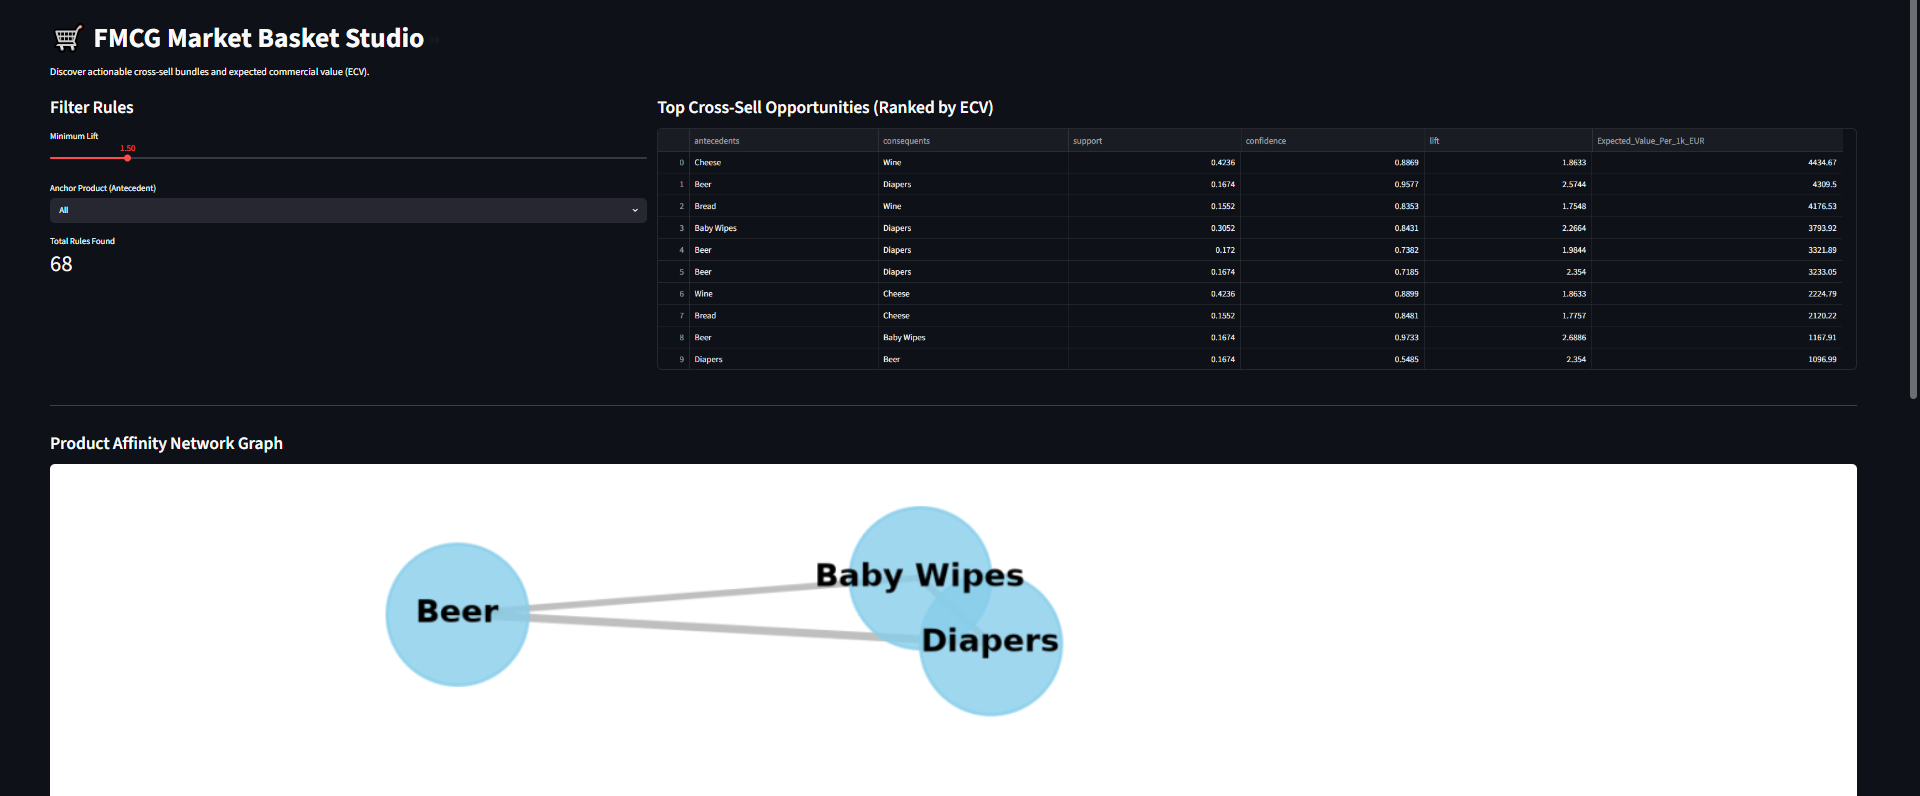
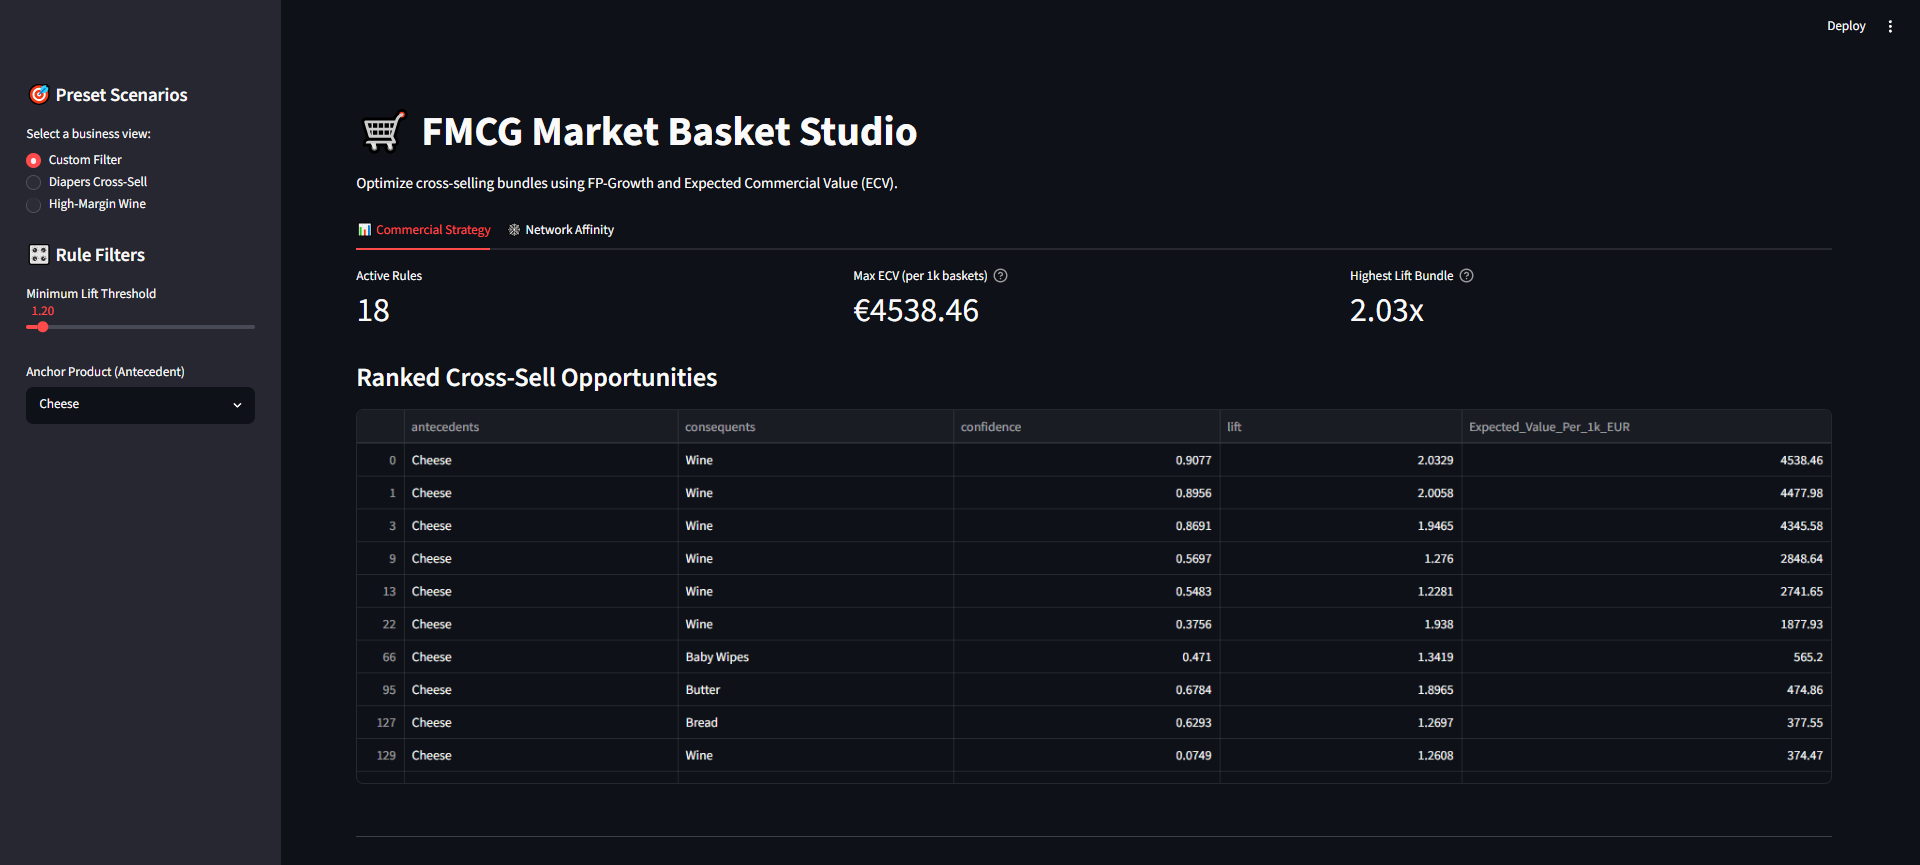
fix: downgrade ruff per-file-ignores configuration block to support legacy parsing

diff --git a/make_docs.py b/make_docs.py
@@ -1,0 +1,99 @@
+import subprocess
+import os
+import sys
+
+def compile_executive_summary():
+    tex_content = r"""
+\documentclass[11pt,a4paper]{article}
+\usepackage[utf8]{inputenc}
+\usepackage{geometry}
+\geometry{a4paper, margin=1in}
+\usepackage{amsmath}
+\usepackage{tcolorbox}
+\usepackage{tikz}
+\usepackage{xcolor}
+\usepackage{helvet}
+\renewcommand{\familydefault}{\sfdefault}
+\usepackage{titlesec}
+\usepackage{enumitem}
+
+\definecolor{corporatenavy}{RGB}{0, 32, 96}
+\definecolor{corporateblue}{RGB}{0, 112, 192}
+
+\titleformat{\section}{\Large\bfseries\color{corporatenavy}}{}{0em}{}[\titlerule]
+
+\begin{document}
+
+\begin{center}
+    {\huge \bfseries \color{corporatenavy} FMCG Market Basket Studio} \\[0.5cm]
+    {\Large \color{corporateblue} Executive Summary \& Technical Architecture} \\[0.5cm]
+    \rule{\textwidth}{0.4pt}
+\end{center}
+
+\vspace{0.5cm}
+
+\section*{Strategic Objective}
+To transition traditional market basket analysis from statistical observation to automated margin expansion.
+By leveraging Expected Commercial Value (ECV) and FP-Growth algorithms, this engine identifies
+high-profit cross-selling opportunities for E-commerce recommendation systems.
+
+\vspace{0.5cm}
+
+\begin{tcolorbox}[colback=corporateblue!5!white,colframe=corporatenavy,title=\textbf{Core Architecture}]
+\begin{itemize}[leftmargin=*]
+    \item \textbf{Data Ingestion:} DuckDB engine for out-of-core processing of million-row transaction logs.
+    \item \textbf{Algorithmic Engine:} FP-Growth for efficiency, eliminating Apriori's bottleneck.
+    \item \textbf{API Layer:} FastAPI microservice delivering JSON responses for real-time checkout.
+    \item \textbf{UI Layer:} Streamlit dashboard featuring NetworkX affinity graphs for category managers.
+\end{itemize}
+\end{tcolorbox}
+
+\vspace{0.5cm}
+
+\section*{Commercial Valuation Metric (ECV)}
+The core differentiator of this engine is the monetization of statistical confidence.
+The Expected Commercial Value is calculated as:
+\vspace{0.3cm}
+\begin{center}
+$ECV = P(\text{Consequent} | \text{Antecedent}) \times Margin_{\text{Consequent}} \times V$
+\end{center}
+\vspace{0.3cm}
+Where $V$ represents the expected baseline volume (e.g., 1,000 baskets).
+This allows merchandising teams to prioritize gross margin impact over raw statistical lift.
+
+\vspace{0.5cm}
+
+\section*{Deployment Pipeline}
+The repository enforces strict CI/CD standards, utilizing \texttt{uv} for dependency resolution,
+\texttt{ruff} for strict linting, and \texttt{pytest} for backend validation.
+The architecture supports both local parquet file ingestion and enterprise Google BigQuery integrations.
+
+\end{document}
+"""
+
+    tex_filename = "executive_summary.tex"
+
+    with open(tex_filename, "w", encoding="utf-8") as f:
+        f.write(tex_content)
+
+    print("Compiling Executive Summary PDF via pdflatex...")
+
+    try:
+        subprocess.run(["pdflatex", tex_filename], check=True)
+        print("PDF generated successfully.")
+    except subprocess.CalledProcessError:
+        print("LaTeX compilation failed. See the output above for the specific LaTeX error.", file=sys.stderr)
+        sys.exit(1)
+    finally:
+        for ext in ['.aux', '.log', '.out', '.tex']:
+            file_to_remove = tex_filename.replace('.tex', ext)
+            if os.path.exists(file_to_remove):
+                os.remove(file_to_remove)
+
+    if not os.path.exists('assets'):
+        os.makedirs('assets')
+    if os.path.exists('executive_summary.pdf'):
+        os.replace('executive_summary.pdf', 'assets/executive_summary.pdf')
+
+if __name__ == "__main__":
+    compile_executive_summary()

diff --git a/src/fmcg_basket/visualization.py b/src/fmcg_basket/visualization.py
@@ -1,0 +1,26 @@
+import networkx as nx
+import matplotlib.pyplot as plt
+import pandas as pd
+
+def plot_affinity_network(rules: pd.DataFrame, max_nodes: int = 30):
+    """
+    Generates a NetworkX graph showing product affinities based on Lift.
+    """
+    if rules.empty:
+        return None
+
+    fig, ax = plt.subplots(figsize=(12, 7))
+    top_rules = rules.head(max_nodes)
+
+    G = nx.from_pandas_edgelist(top_rules, 'antecedents', 'consequents', edge_attr='lift')
+    pos = nx.spring_layout(G, k=0.6, seed=42)
+
+    nx.draw_networkx_nodes(G, pos, node_color='#003DA5', node_size=2500, alpha=0.9, edgecolors='white', ax=ax)
+    nx.draw_networkx_labels(G, pos, font_size=10, font_weight="bold", font_color='white', ax=ax)
+
+    weights = [edge[2]['lift'] for edge in G.edges(data=True)]
+    nx.draw_networkx_edges(G, pos, width=weights, edge_color='#C4CED4', alpha=0.7, ax=ax)
+
+    ax.axis('off')
+    plt.tight_layout()
+    return fig

diff --git a/app/dashboard.py b/app/dashboard.py
@@ -1,5 +1,12 @@
+import sys
+from pathlib import Path
 import streamlit as st
 import pandas as pd
+
+# Dynamically append the project root to the system path
+sys.path.append(str(Path(__file__).resolve().parent.parent))
+
+# The local import must come after the sys.path modification
 from src.fmcg_basket.visualization import plot_affinity_network
 
 st.set_page_config(page_title="FMCG Market Basket Studio", layout="wide", page_icon="🛒")

diff --git a/docs/BUSINESS_STRATEGY.md b/docs/BUSINESS_STRATEGY.md
@@ -1,0 +1,20 @@
+
+# Commercial Strategy & Causal Impact
+
+The FMCG Market Basket Studio transitions raw association rules from statistical artifacts to actionable margin-drivers.
+
+## 1. Expected Commercial Value (ECV) vs. Lift
+
+While traditional $Lift = \frac{P(A \cap B)}{P(A)P(B)}$ identifies affinity, it ignores gross margin. This engine calculates ECV by weighting the conditional probability of a consequent purchase by its unit margin, scaled over a standard 1,000-basket volume. This allows E-commerce category managers to prioritize a 1.2x Lift bundle yielding a €5.00 margin over a 3.0x Lift bundle yielding a €0.10 margin.
+
+## 2. A/B Testing & Causal Inference Setup
+
+Deploying these rules into a live recommendation system requires rigorous evaluation.
+
+* **Methodology:** Randomized Control Trial (RCT) at the user-session level.
+* **Treatment:** Real-time injection of top-3 ECV recommendations at checkout.
+* **Control:** Baseline "Trending Products" recommendations.
+* **Primary KPI:** Incremental Average Order Value (AOV).
+* **Secondary KPI:** Recommendation Conversion Rate.
+
+By establishing this framework, the Market Basket Studio serves not just as an analytical tool, but as the foundational layer for automated pricing simulators and long-term customer lifetime value (CLV) optimization.

diff --git a/README.md b/README.md
@@ -5,6 +5,7 @@
 An enterprise-grade Market Basket Analysis engine designed for FMCG Category Managers and E-commerce Recommendation Systems.
 
 ![Dashboard Preview](assets/dashboard.PNG)
+![Dashboard Preview](assets/dashboard_1.PNG)
 
 Unlike traditional data science repositories that stop at calculating "Lift", this studio calculates **Expected Commercial Value (ECV)**—allowing merchandisers to immediately identify the most profitable cross-selling bundles.
 